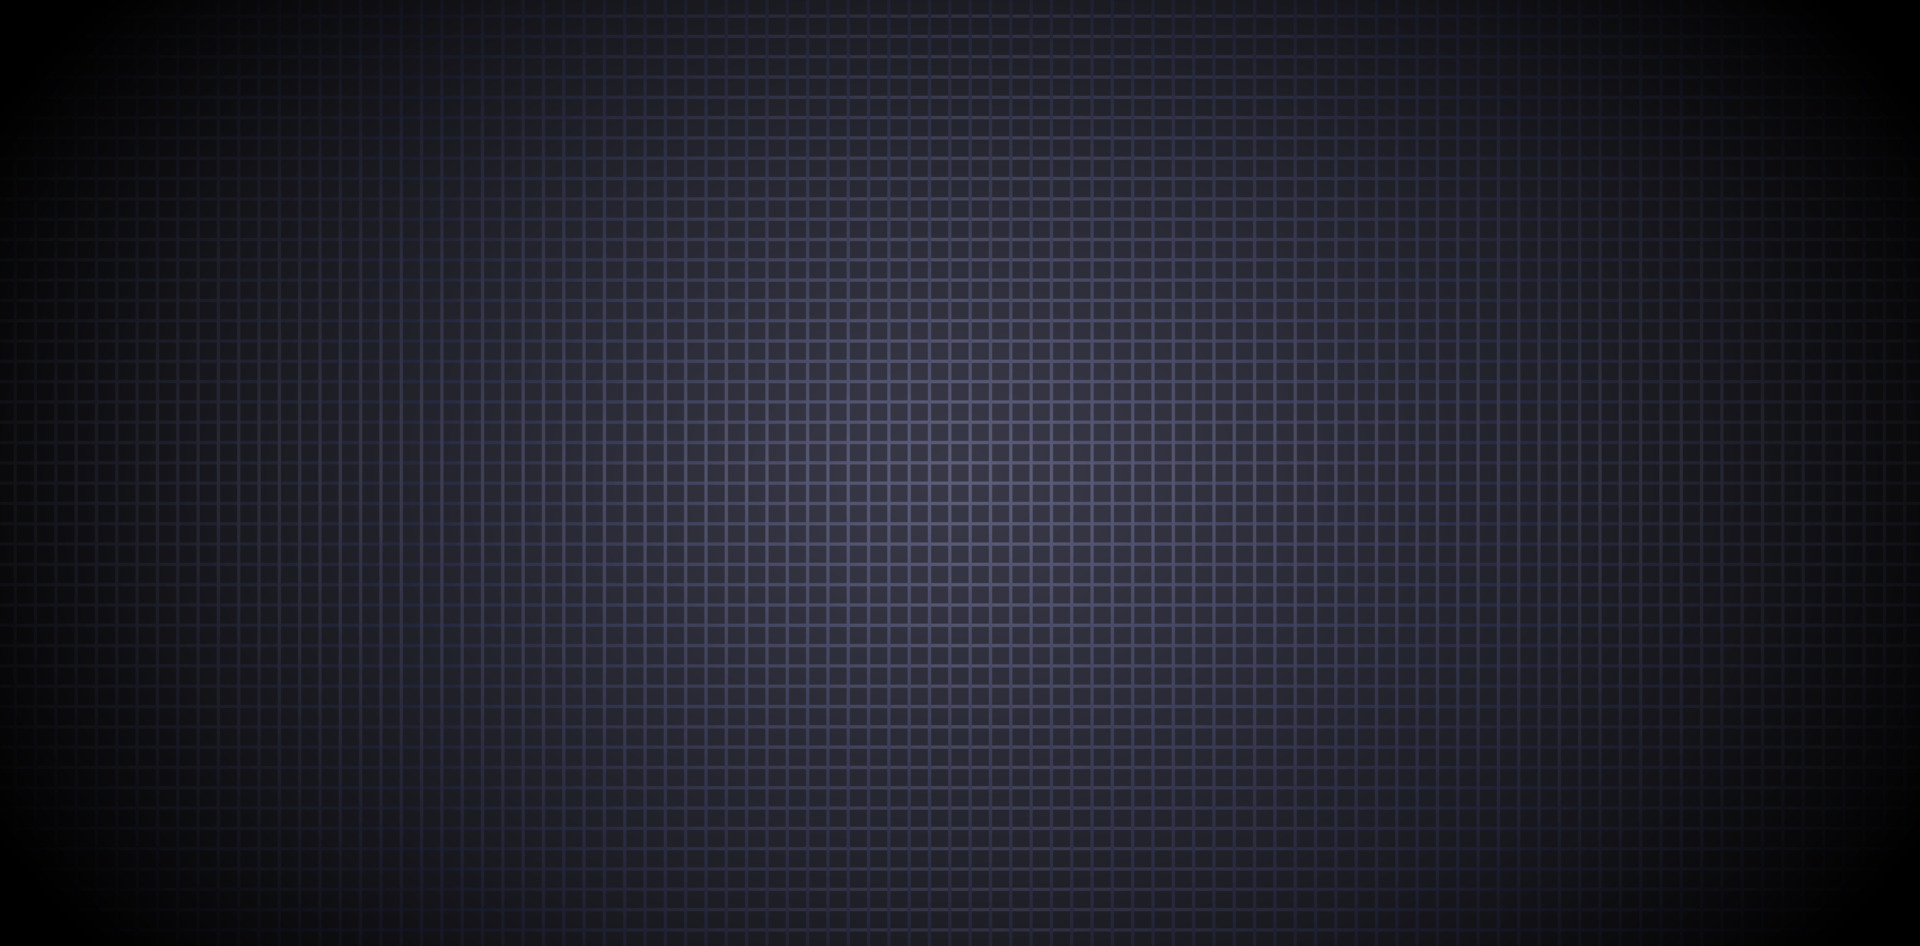
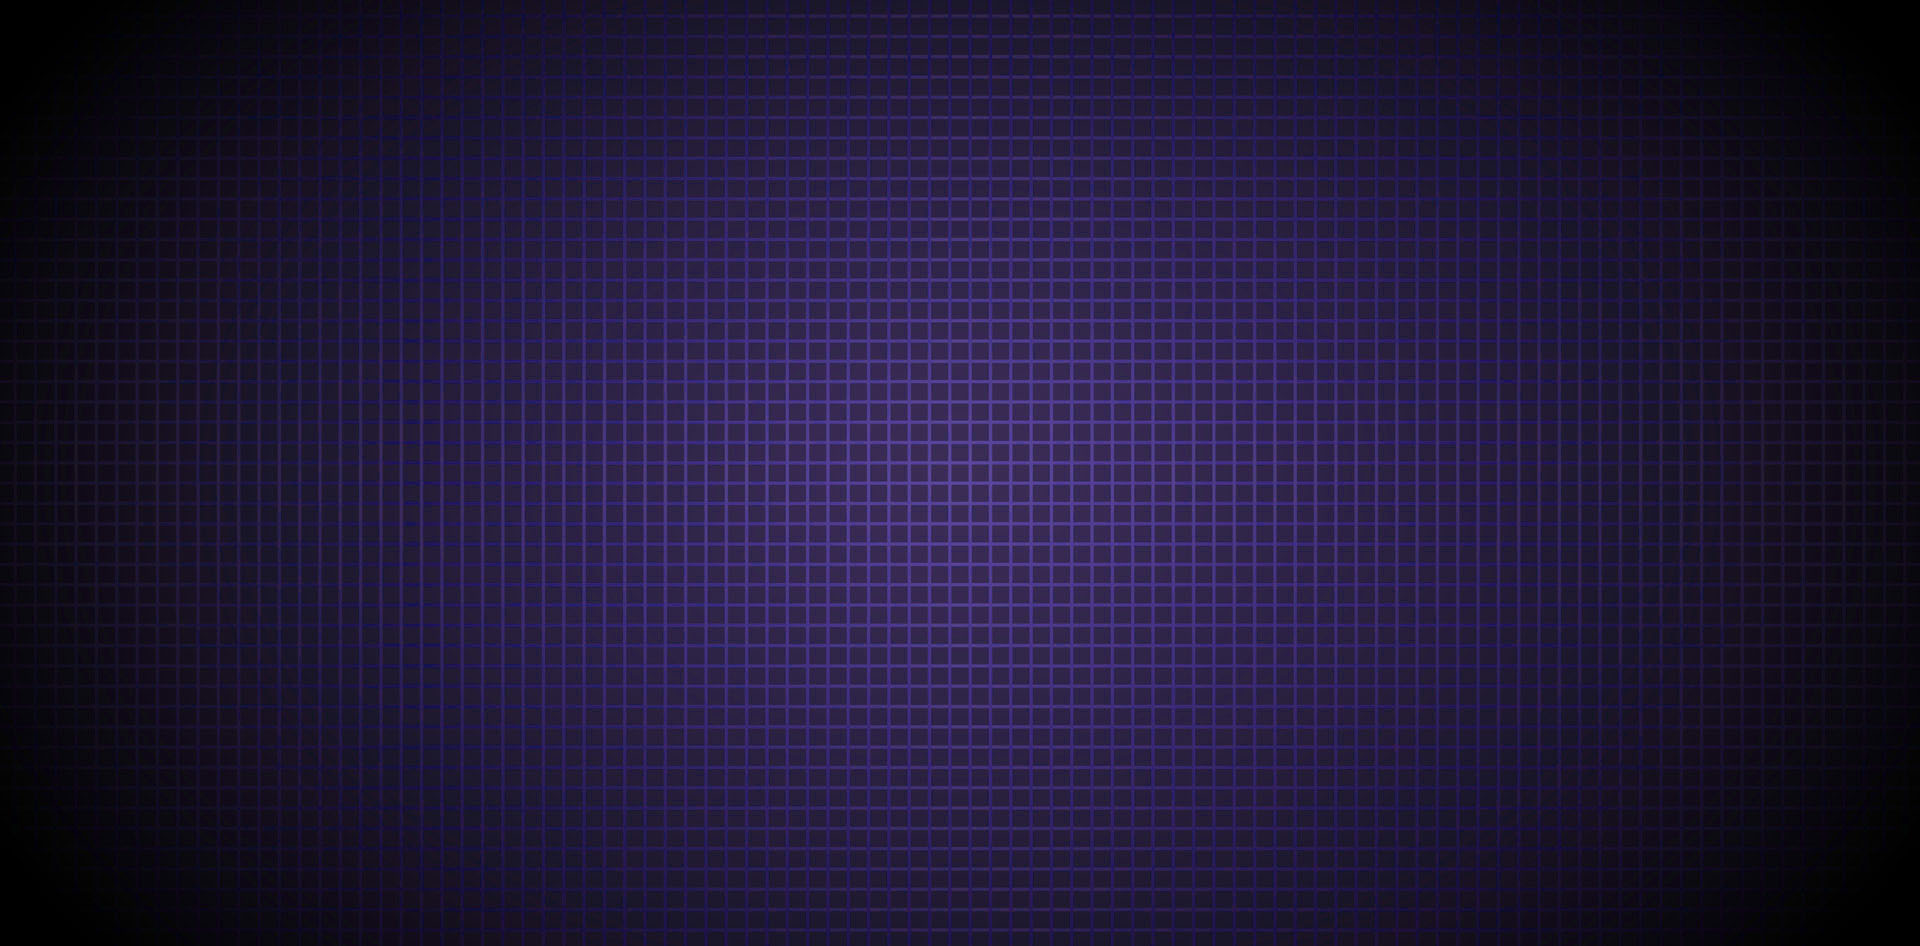
feat:ui update

Changed region(s): [[0.1875, 0.092, 0.8125, 0.9503]]

diff --git a/components/Hero.vue b/components/Hero.vue
@@ -33,7 +33,7 @@
 
       <div
         v-else-if="randomPost"
-        class="!grid !grid-cols-1 md:!grid-cols-2 w-full max-w-5xl gap-6 sm:gap-8 p-4 sm:p-6 lg:p-8 bg-[#12172A] z-10 relative overflow-hidden"
+        class="!grid !grid-cols-1 md:!grid-cols-2 w-full max-w-5xl hover:scale-105 transition-all duration-300 gap-6 sm:gap-8 p-4 sm:p-6 lg:p-8 bg-[#12172A] z-10 relative overflow-hidden"
       >
         <div
           class="absolute inset-0 bg-[url('/bg-img.jpg')] bg-cover bg-center bg-no-repeat glow-2 z-0"
@@ -93,7 +93,7 @@ const randomPost = computed(() => posts.value?.data?.[randomPostNum.value]);
   content: "";
   inset: 0;
   border-radius: 50%;
-  background: rgb(255, 91, 247);
+  background: rgb(255, 91, 162);
   position: absolute;
   filter: blur(40px);
   animation: pulse 7s ease-in-out infinite;
@@ -119,7 +119,7 @@ const randomPost = computed(() => posts.value?.data?.[randomPostNum.value]);
     opacity: 0;
   }
   50% {
-    opacity: 0.01;
+    opacity: 0.02;
   }
 }
 

diff --git a/nuxt.config.ts b/nuxt.config.ts
@@ -4,6 +4,7 @@ export default defineNuxtConfig({
   devtools: { enabled: true },
   app: {
     pageTransition: { name: "page", mode: "out-in" },
+    layoutTransition: { name: "layout", mode: "out-in" },
     keepalive: false,
     head: {
       link: [{ rel: "icon", type: "image/png", href: "/img-logo.png" }],

diff --git a/app.vue b/app.vue
@@ -17,4 +17,13 @@
   opacity: 0;
   filter: blur(1rem);
 }
+
+.layout-enter-active,
+.layout-leave-active {
+  transition: all 0.4s;
+}
+.layout-enter-from,
+.layout-leave-to {
+  filter: grayscale(1);
+}
 </style>
